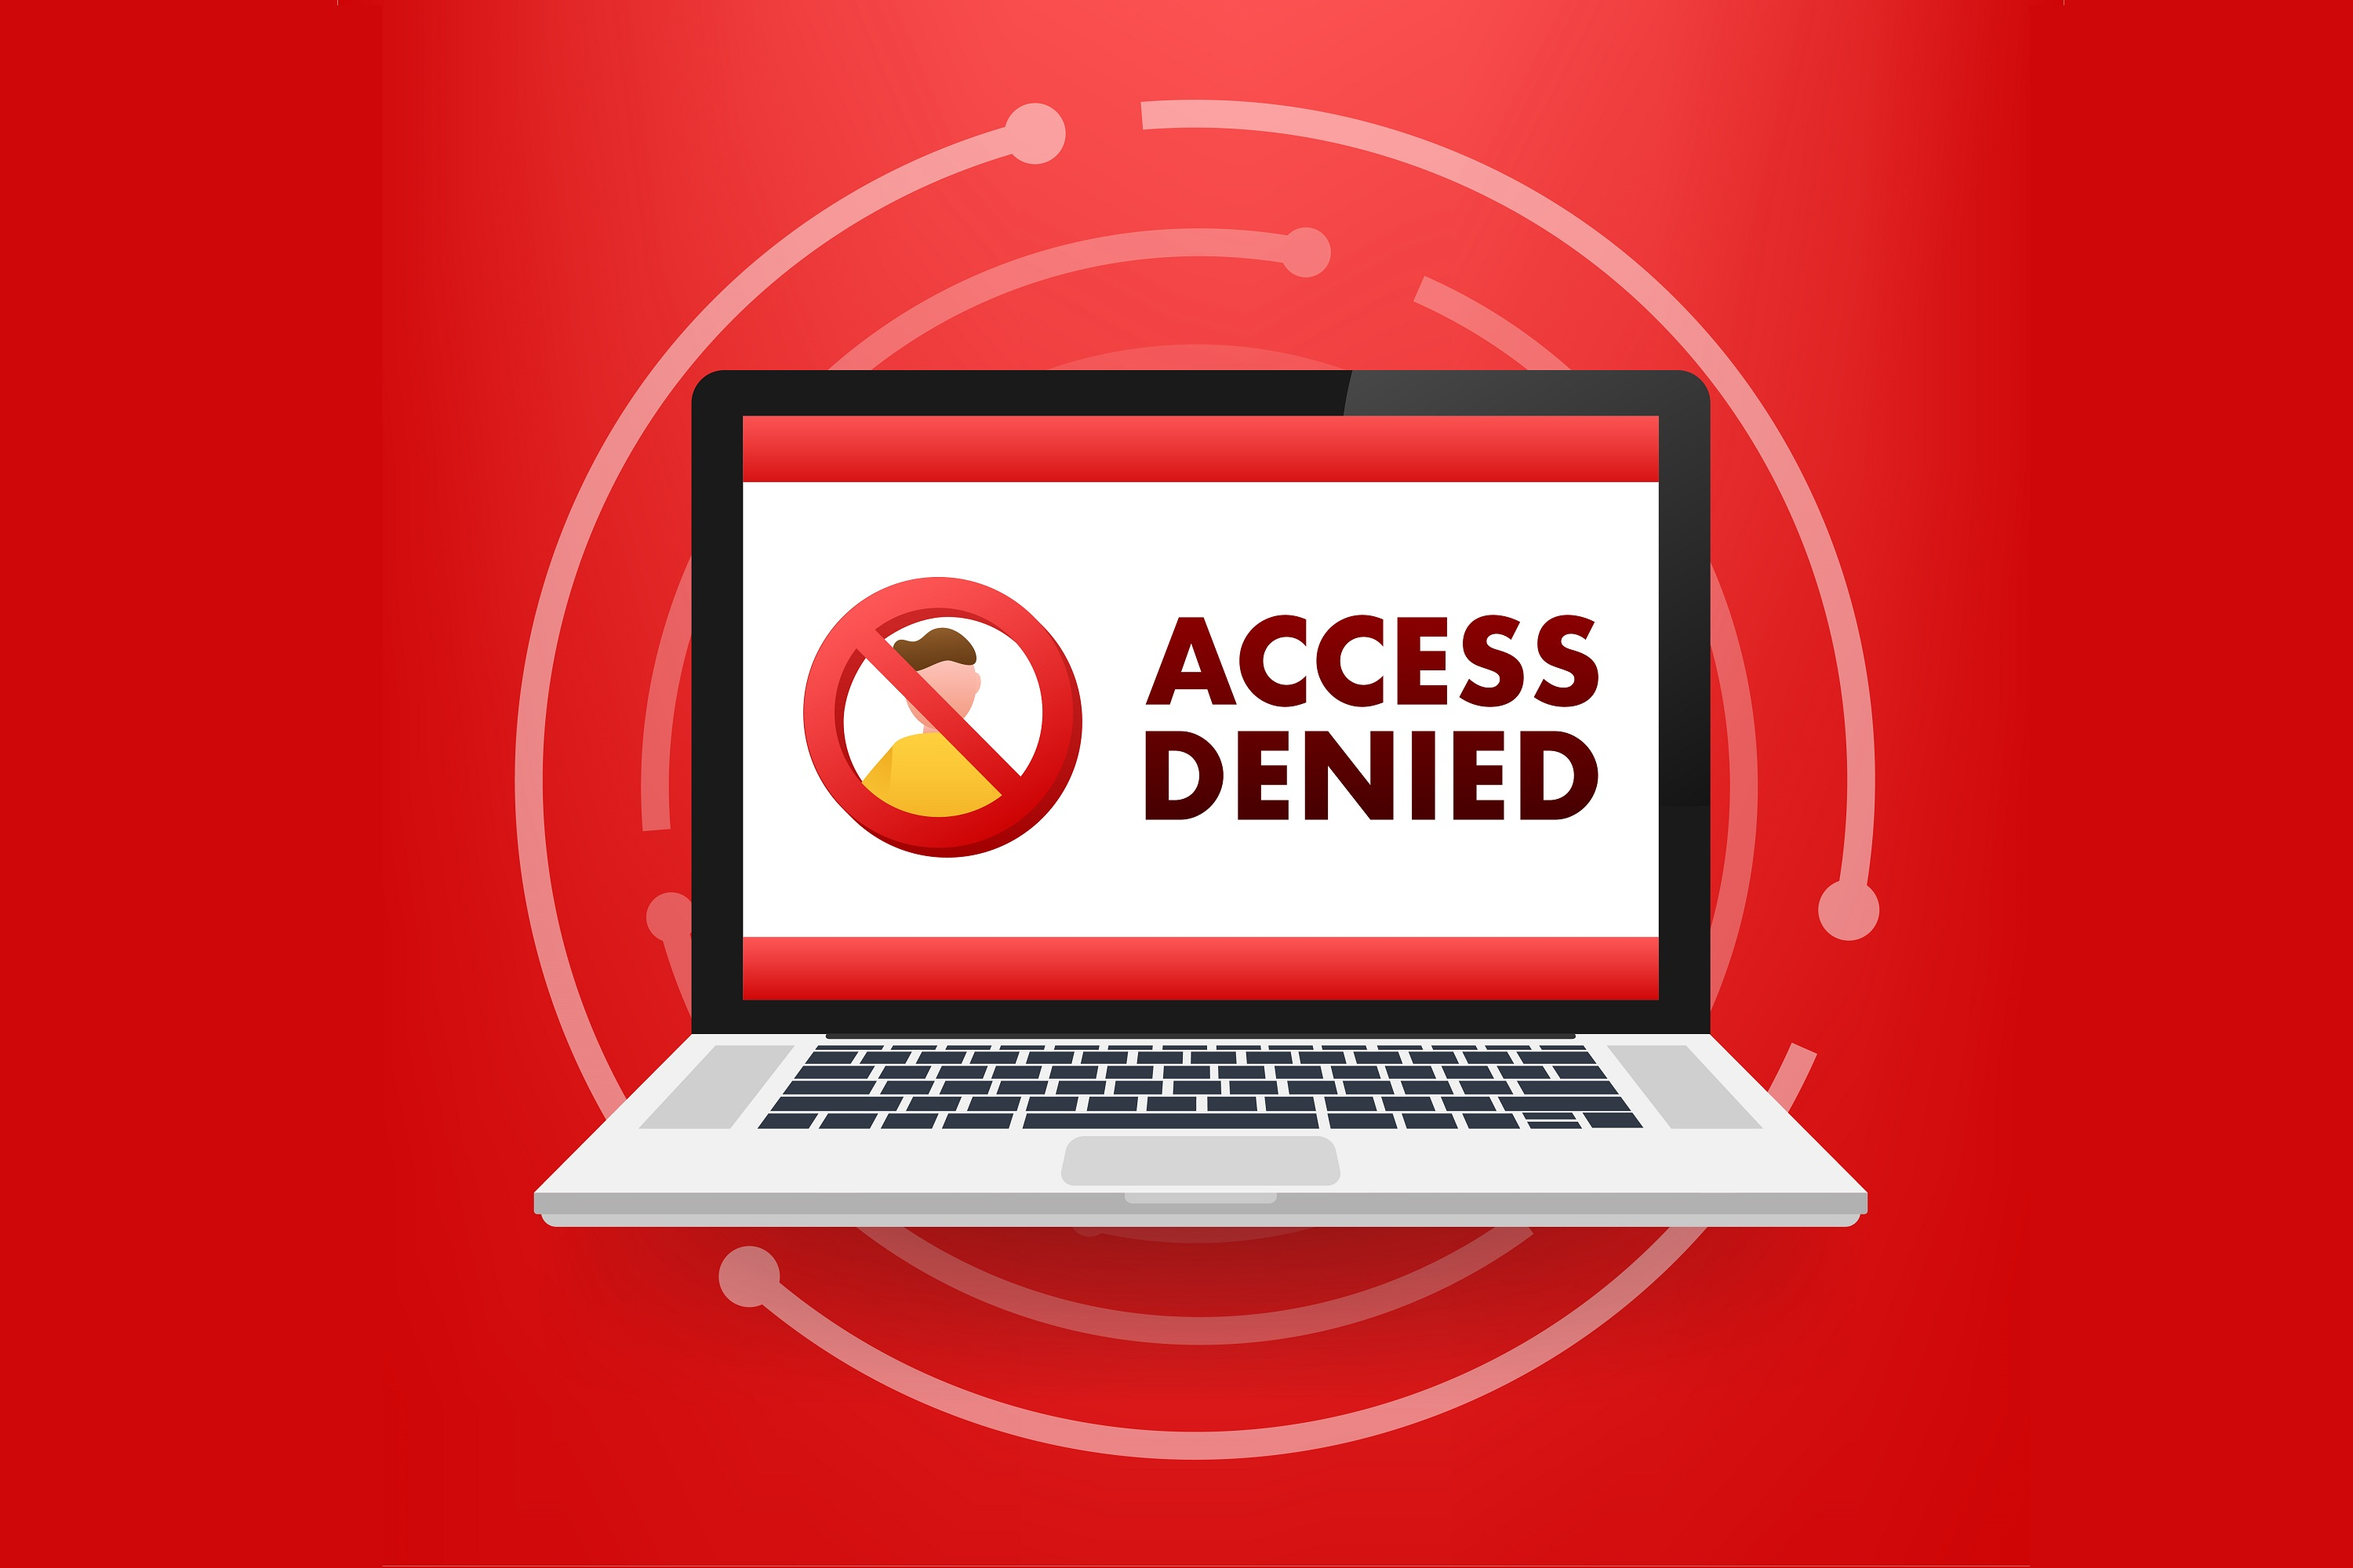
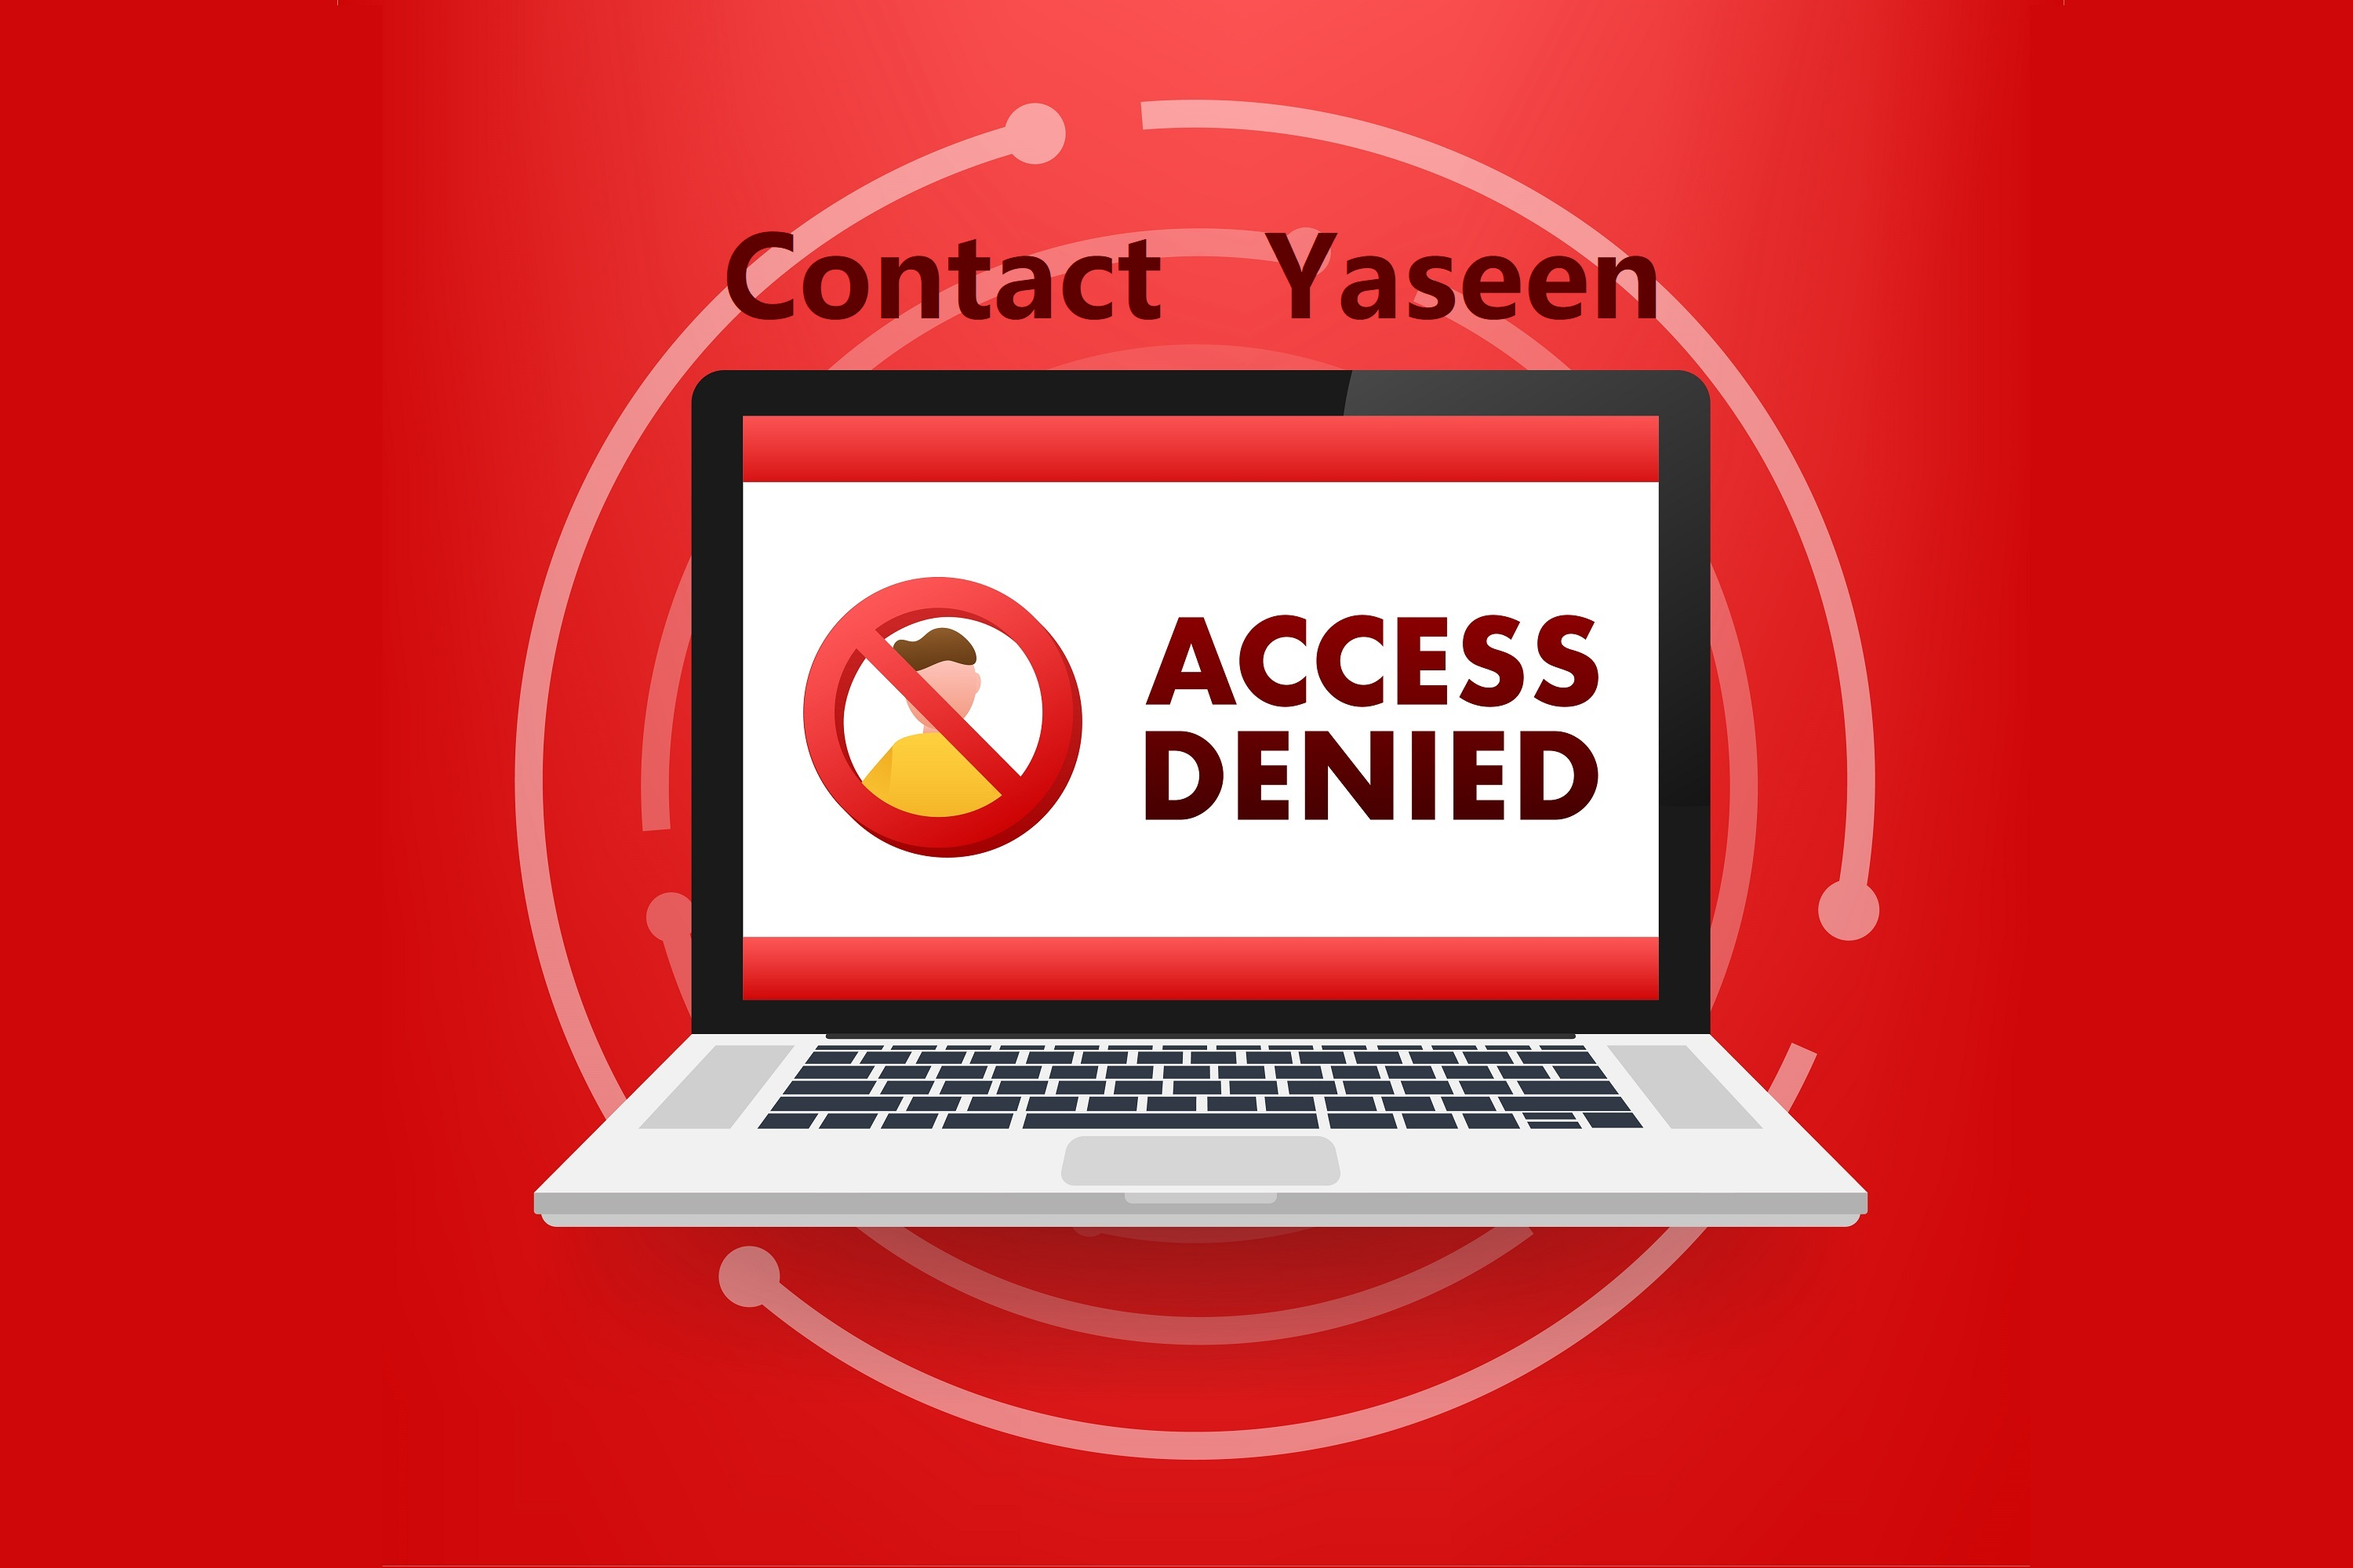
Before IdentityDbContext

Changed region(s): [[0.31, 0.124, 0.496, 0.217], [0.527, 0.155, 0.713, 0.217]]

diff --git a/GulfVillas.Web/Program.cs b/GulfVillas.Web/Program.cs
@@ -13,9 +13,45 @@ builder.Services.AddDbContext<ApplicationDbContext>(options =>
     options.UseSqlServer(builder.Configuration.GetConnectionString("DefaultConnection")));
 //GetConnectionString is a Helper method which gets our connection string from appsetting.json file. If we change the name of the key there then we have to use another method here which is GetValue
 
+//Prevoius connection string : "DefaultConnection": "Server=DESKTOP-LFIUSB6\\SQLEXPRESS;Database=GulfVillas;Trusted_Connection=True;MultipleActiveResultSets=true;TrustServerCertificate=True"
+
 builder.Services.AddScoped<IUnitOfWork, UnitOfWork>();
 
 var app = builder.Build();
+
+//query for access
+app.Use(async (context, next) =>
+{
+    if (!context.Request.Query.ContainsKey("devaccess"))
+    {
+        context.Response.StatusCode = 403;
+        await context.Response.WriteAsync("Access Denied Contact Yaseen For Accessing");
+        return;
+    }
+    await next();
+});
+
+// Middleware to serve static files
+app.UseStaticFiles();
+
+// Middleware to check for the "devaccess" query parameter
+//app.Use(async (context, next) =>
+//{
+//    if (!context.Request.Query.ContainsKey("devaccess"))
+//    {
+//        context.Response.StatusCode = 403;
+//        // Construct the full path to the image
+//        var imagePath = "/images/accessDenied.png"; // Assuming 'wwwroot' is the web root
+//        var fullImagePath = Path.Combine(context.Request.PathBase, imagePath);
+
+//        // Redirect the user to the access denied image
+//        context.Response.Redirect(fullImagePath);
+//        return;
+//    }
+//    await next();
+//});
+
+
 
 // Configure the HTTP request pipeline.
 if (!app.Environment.IsDevelopment())
@@ -26,7 +62,9 @@ if (!app.Environment.IsDevelopment())
 }
 
 
+
 app.UseHttpsRedirection();
+
 app.UseStaticFiles();
 
 app.UseRouting();
